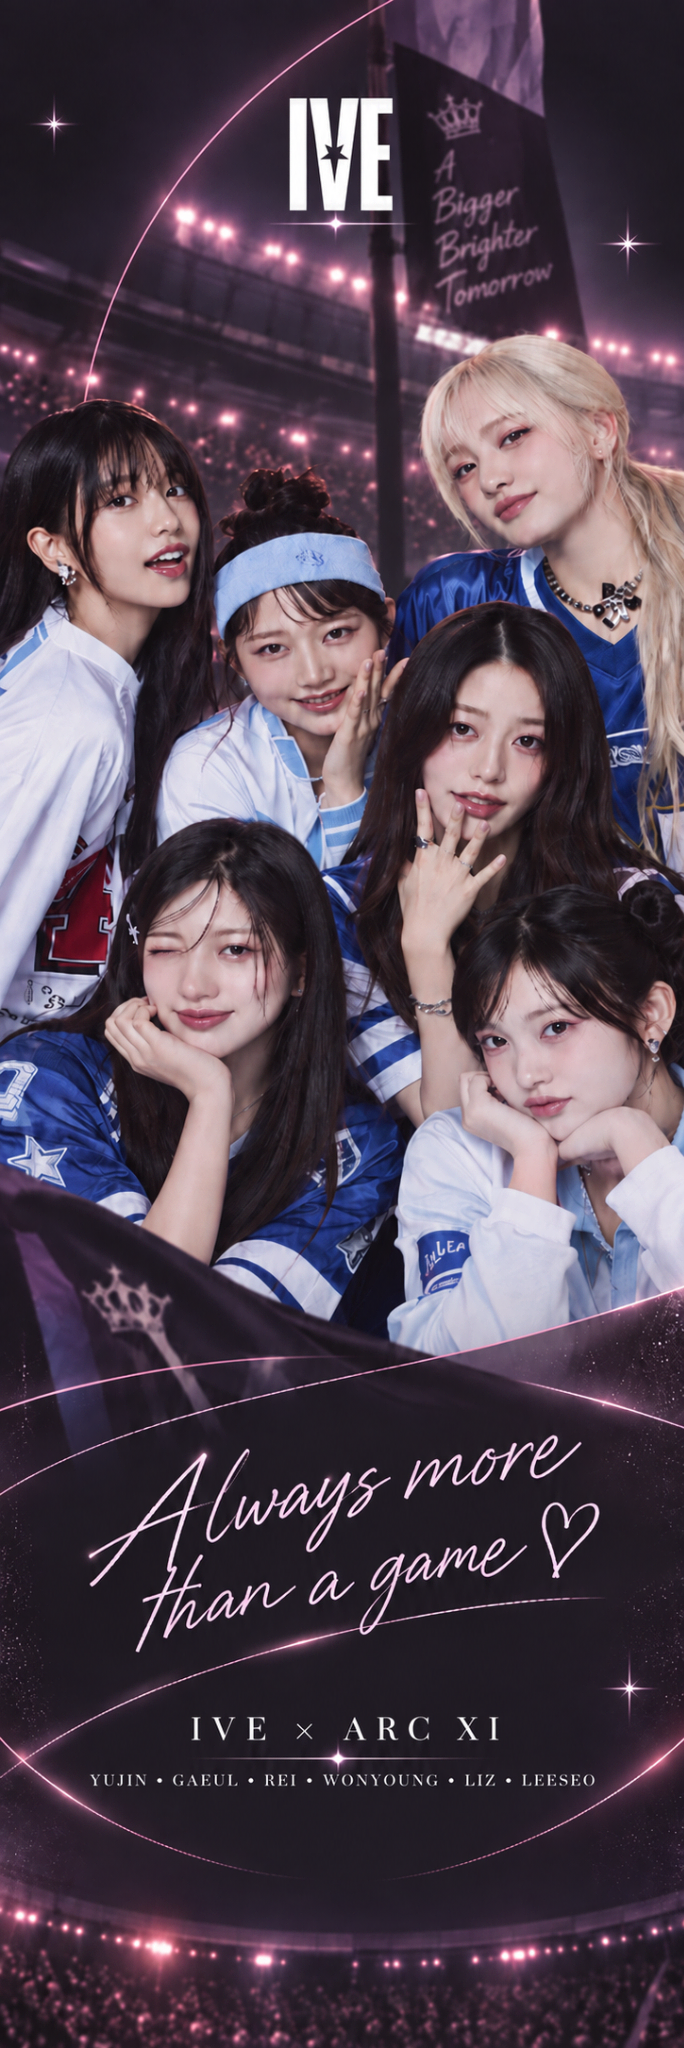
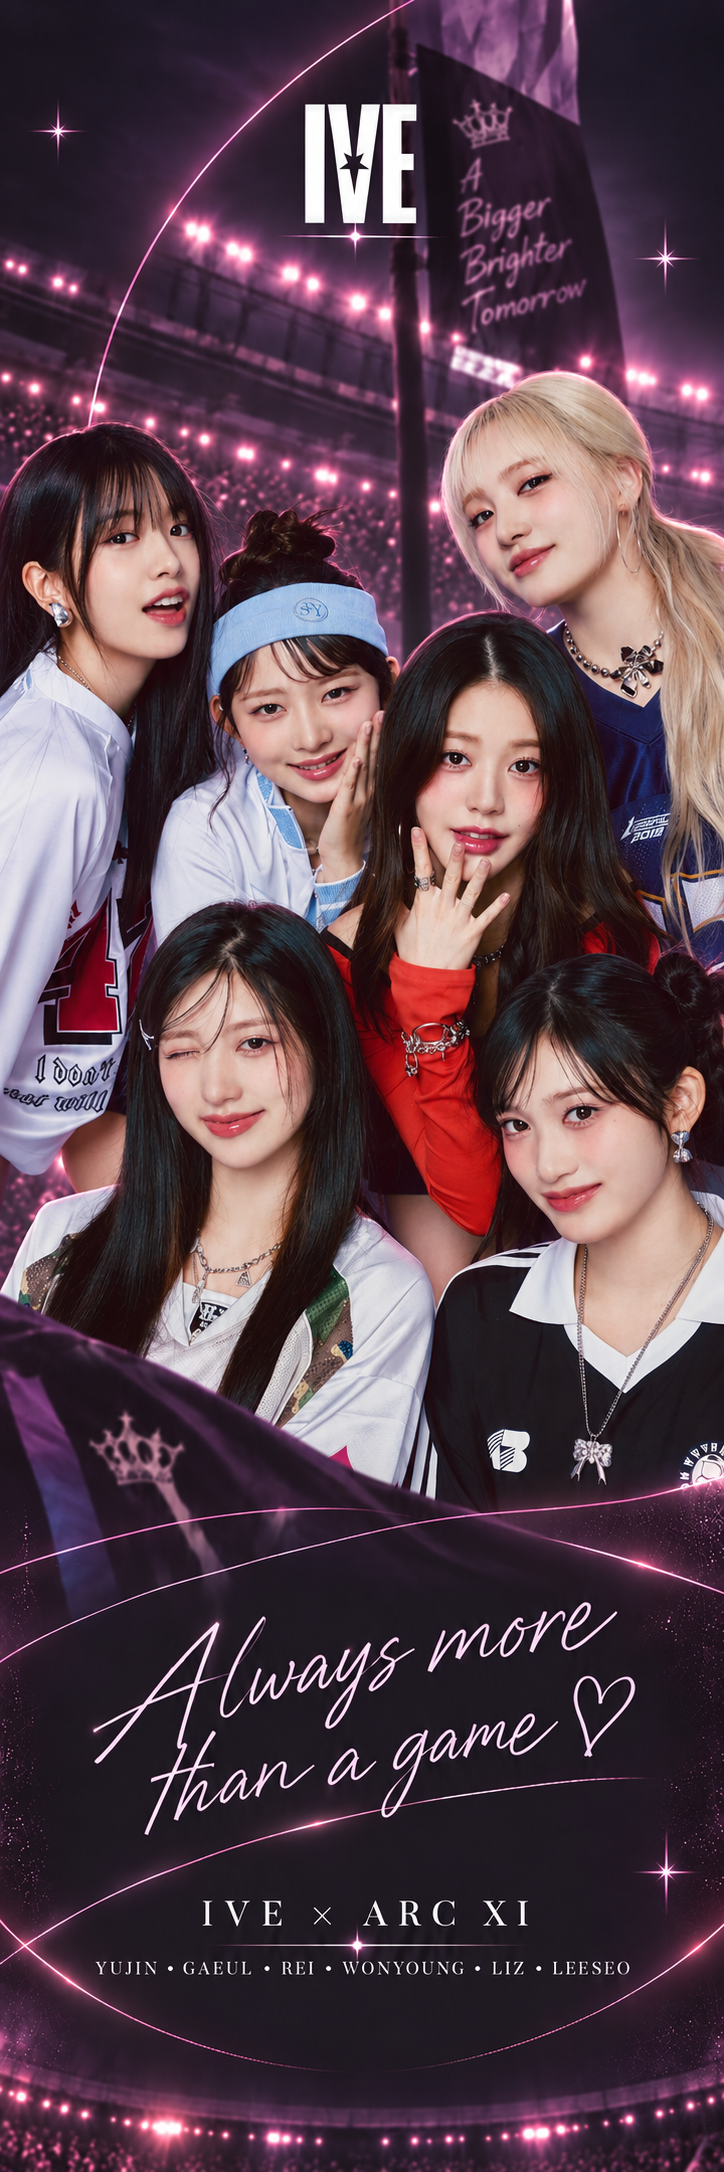
Apply approved real-photo IVE right rail

diff --git a/pages/sw.js b/pages/sw.js
@@ -1,4 +1,4 @@
-const CACHE='arc-xi-shell-v74';
+const CACHE='arc-xi-shell-v75';
 const BASE=self.registration?.scope?new URL(self.registration.scope).pathname:new URL('./',self.location.href).pathname;
 const asset=name=>BASE+name;
 const SHELL=[
@@ -20,7 +20,7 @@ const SHELL=[
   asset('strict-board-filter.js?v=2'),
   asset('canonical-live-source.js?v=2'),
   asset('matchday-behavior.js?v=3'),
-  asset('ive-sidebars.js?v=19'),
+  asset('ive-sidebars.js?v=20'),
   asset('app-v2.js?v=34'),
   asset('status-sync.js?v=4'),
   asset('pwa-v2.js?v=6'),

diff --git a/pages/index.html b/pages/index.html
@@ -29,7 +29,7 @@
   <script src="./strict-board-filter.js?v=2"></script>
   <script src="./canonical-live-source.js?v=2"></script>
   <script src="./matchday-behavior.js?v=3"></script>
-  <script src="./ive-sidebars.js?v=19" defer></script>
+  <script src="./ive-sidebars.js?v=20" defer></script>
   <script src="./app-v2.js?v=34" defer></script>
   <script src="./status-sync.js?v=4" defer></script>
   <script src="./pwa-v2.js?v=6" defer></script>

diff --git a/pages/ive-sidebars.js b/pages/ive-sidebars.js
@@ -11,9 +11,9 @@
       height: 2172
     },
     right: {
-      image: './media/ive/ive-right-final.png?v=4',
-      width: 684,
-      height: 2048
+      image: './media/ive/ive-right-final.png?v=5',
+      width: 724,
+      height: 2172
     }
   };
 
